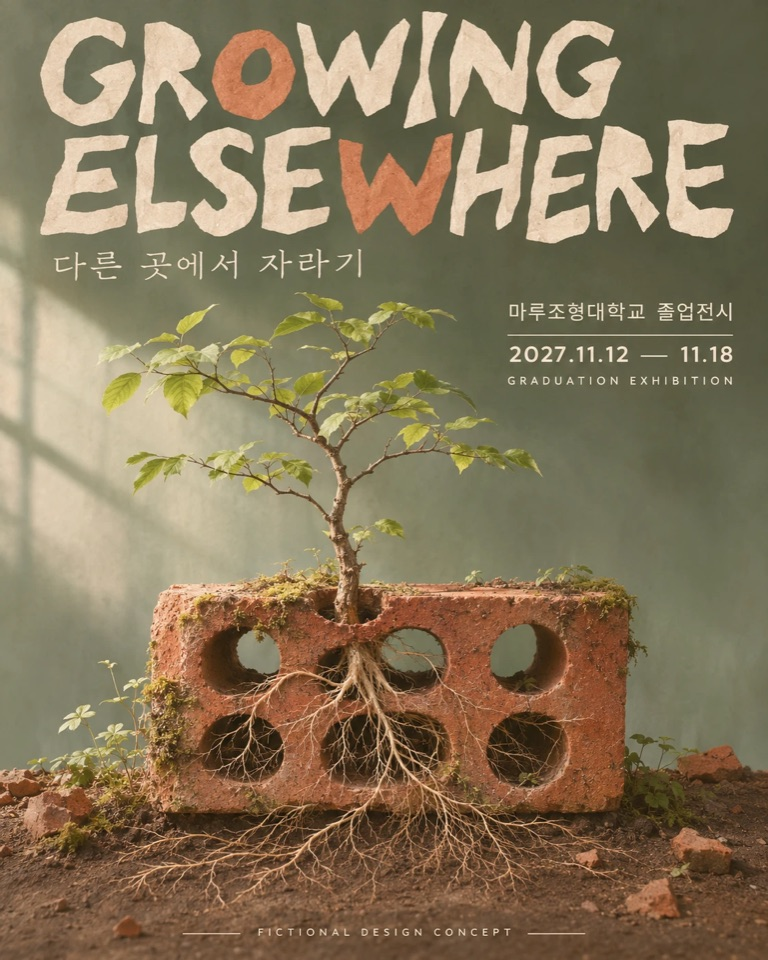
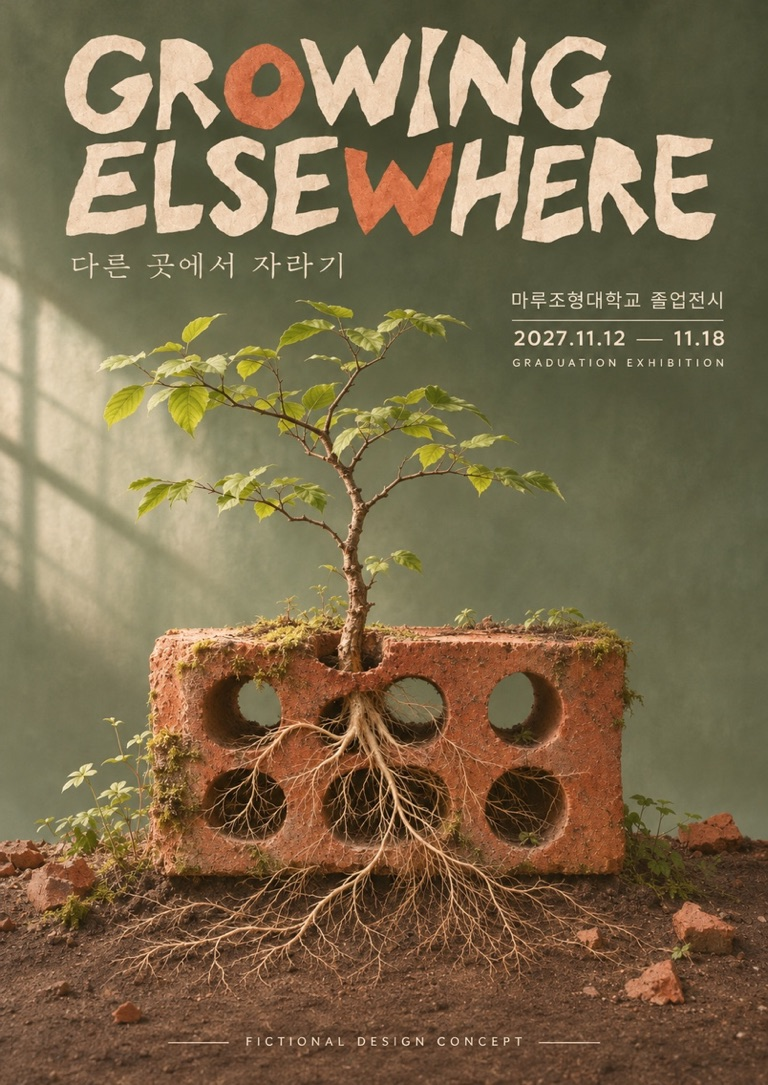
전시 포스터 규격 402:568 적용(탐색·홈·보관함) + 규격 포스터 7장 교체, 입력 칸 굵기·소속 카드·드로어 닫힘 정리

diff --git a/assets/flow.css b/assets/flow.css
@@ -72,22 +72,22 @@ img { display: block; }
 .cnt { font-size: 12px; font-weight: 500; color: var(--text-secondary); font-variant-numeric: tabular-nums; }
 .ul { position: relative; display: flex; align-items: center; height: 47px; margin-top: 4px; border-bottom: 1px solid var(--border-primary); transition: border-color .2s; }
 .ul:focus-within { border-bottom-color: var(--text-primary); }
-.ul input { flex: 1; min-width: 0; height: 100%; padding: 0; border: 0; outline: 0; background: transparent; font-size: 16px; font-weight: 500; }
+.ul input { flex: 1; min-width: 0; height: 100%; padding: 0; border: 0; outline: 0; background: transparent; font-size: 16px; font-weight: 400; } /* 11-13 Figma Field 값·안내 16 Regular */
 .ul input::placeholder, textarea::placeholder { color: var(--text-teritary); }   /* 11-08: Figma Field `text/teritary`(대비 4.8:1). 잠긴 칸(.locked)만 disable 유지 */
 .ul .i { width: 22px; height: 22px; }
 .pick { width: 100%; height: 49px; text-align: left; cursor: pointer; justify-content: space-between; font-size: 16px; font-weight: 400; } /* 11-07 Figma 대조: 선택값 16 Regular · 11-08 `Field / 선택` 입력 줄 49 */
 .pick span.ph { color: var(--text-teritary); }   /* 11-08 Figma Field 안내 글자 text/teritary(이전 disable은 대비 1.5:1) */
 .pick .i { width: 20px; height: 20px; color: var(--text-primary); }
-.ta { display: block; width: 100%; height: 128px; margin-top: 8px; padding: 14px 16px; border: 1px solid var(--border-primary); border-radius: var(--r12); font-size: 16px; font-weight: 500; line-height: 1.4; resize: none; outline: 0; transition: border-color .2s; }
+.ta { display: block; width: 100%; height: 128px; margin-top: 8px; padding: 14px 16px; border: 1px solid var(--border-primary); border-radius: var(--r12); font-size: 16px; font-weight: 400; line-height: 1.4; resize: none; outline: 0; transition: border-color .2s; }
 .ta:focus { border-color: var(--text-primary); }
 .cnt-r { margin-top: 8px; text-align: right; font-size: 12px; font-weight: 500; color: var(--text-teritary); font-variant-numeric: tabular-nums; }
 .help { margin-top: 4px; font-size: 12px; font-weight: 500; line-height: 1.4; color: var(--text-secondary); }
 .help.e { color: var(--notice); }
 .two { display: grid; grid-template-columns: 1fr 1fr; gap: 12px; }   /* 11-08 Figma 두 칸 175 + 12 */
 .locked { margin-top: 8px; border: 1px solid var(--border-primary); border-radius: var(--r12); overflow: hidden; }
-.locked .fix { display: flex; align-items: center; justify-content: space-between; height: 54px; padding: 0 16px; background: var(--bg-secondary); font-size: 16px; font-weight: 500; }   /* 11-13 Figma `Field / 소속`: 학교명 줄 54(칸 안쪽 360×54, 글자 22 + 위아래 16) */
+.locked .fix { display: flex; align-items: center; justify-content: space-between; height: 54px; padding: 0 16px; background: var(--bg-secondary); font-size: 16px; font-weight: 400; }   /* 11-13 Figma `Field / 소속`: 학교명 줄 54(칸 안쪽 360×54, 글자 22 + 위아래 16) */
 .locked .fix .i { width: 18px; height: 18px; color: var(--text-teritary); }
-.locked input { display: block; width: 100%; height: 55px; padding: 0 16px; border: 0; border-top: 1px solid var(--border-primary); outline: 0; font-size: 16px; font-weight: 500; }   /* 11-13 입력 줄 55(위 선 1 + 54), 카드 전체 111 */
+.locked input { display: block; width: 100%; height: 55px; padding: 0 16px; border: 0; border-top: 1px solid var(--border-primary); outline: 0; font-size: 16px; font-weight: 400; }   /* 11-13 입력 줄 55(위 선 1 + 54), 카드 전체 111 */
 .locked:focus-within { border-color: var(--text-primary); }
 .locked:focus-within input { border-top-color: var(--border-primary); }
 .locked input::placeholder { color: var(--text-disable); }

diff --git a/my.html b/my.html
@@ -119,7 +119,7 @@ img { display: block; }
 .card:active { transform: scale(.98); }
 @keyframes rise { from { opacity: 0; transform: translateY(12px); } }
 .card .im div { position: relative; overflow: hidden; background: var(--bg-secondary); }   /* 11-12 카드 E: 검은 틀·사진 여백 7·모서리 12 없음, 사진 외곽선 없음 */
-.card.ex .im div { aspect-ratio: 161 / 241; }
+.card.ex .im div { aspect-ratio: 402 / 568; }   /* 11-13 포스터 정식 규격 402:568 (탐색과 같은 카드, 이전 161/241) */
 .card.wk .im div { aspect-ratio: 161 / 215; }
 .card .im img { width: 100%; height: 100%; object-fit: cover; transition: transform .7s var(--ease); }
 @media (hover: hover) { .card:hover .im img { transform: scale(1.03); } }
@@ -187,7 +187,7 @@ img { display: block; }
 .sheet.bot .jh { margin-top: 2px; font-size: 12px; font-weight: 500; line-height: 1.4; color: var(--text-teritary); }
 .sheet.bot label { display: block; margin-top: 24px; font-size: 14px; font-weight: 600; letter-spacing: -0.03em; }
 .sheet.bot label .req { color: var(--notice); margin-left: 2px; }
-.sheet.bot .jin { display: block; width: 100%; height: 48px; margin-top: 12px; padding: 0 16px; border: 1px solid var(--border-primary); border-radius: var(--r12); font: inherit; font-size: 16px; letter-spacing: -0.03em; color: var(--text-primary); background: #fff; transition: border-color .2s; }
+.sheet.bot .jin { display: block; width: 100%; height: 48px; margin-top: 12px; padding: 0 16px; border: 1px solid var(--border-primary); border-radius: var(--r12); font: inherit; font-size: 16px; font-weight: 400; letter-spacing: -0.03em; color: var(--text-primary); background: #fff; transition: border-color .2s; } /* 11-13 Figma Field 값·안내 16 Regular */
 .sheet.bot .jin:focus { outline: 0; border-color: var(--text-primary); }
 .sheet.bot .jx { margin-top: 8px; font-size: 12px; font-weight: 500; line-height: 1.4; color: var(--text-teritary); }
 .sheet.bot .jbtn { display: grid; place-items: center; width: 100%; height: 48px; margin-top: 24px; border-radius: var(--r12); background: var(--text-primary); color: #fafafa; font-size: 14px; font-weight: 600; transition: background .2s, opacity .2s, transform .2s var(--ease); }

diff --git a/profile-edit.html b/profile-edit.html
@@ -64,7 +64,7 @@ form { flex: 1; display: flex; flex-direction: column; }
 .ul { position: relative; flex: 1; min-width: 0; display: flex; align-items: center; height: 47px; border-bottom: 1px solid var(--border-primary); transition: border-color .2s; }
 .ul:focus-within { border-bottom-color: var(--text-primary); }
 .field.err .ul { border-bottom-color: var(--notice); }
-.ul input { flex: 1; min-width: 0; height: 100%; padding: 0; border: 0; outline: 0; background: transparent; font-size: 16px; font-weight: 500; }
+.ul input { flex: 1; min-width: 0; height: 100%; padding: 0; border: 0; outline: 0; background: transparent; font-size: 16px; font-weight: 400; } /* 11-13 Figma Field 값·안내 16 Regular */
 .ul input::placeholder { color: var(--text-teritary); }   /* 11-08: Figma Field과 같은 text/teritary */
 .ul input[readonly] { color: var(--text-primary); }
 .ul .i { width: 22px; height: 22px; color: var(--text-primary); }
@@ -117,7 +117,7 @@ dialog.modal::backdrop { background: rgba(0, 0, 0, .42); }
 .pphoto + .field { margin-top: 20px; }   /* 11-08 Figma: 사진 아래 안내 글이 없어서 사진 → 첫 입력 20 */
 .chip .ck { display: none; }
 .chip[aria-pressed="true"] .ck { display: block; }
-.ta { display: block; width: 100%; height: 128px; margin-top: 8px; padding: 14px 16px; border: 1px solid var(--border-primary); border-radius: var(--r12); font: inherit; font-size: 16px; font-weight: 500; line-height: 1.4; resize: none; outline: 0; color: inherit; transition: border-color .2s; }
+.ta { display: block; width: 100%; height: 128px; margin-top: 8px; padding: 14px 16px; border: 1px solid var(--border-primary); border-radius: var(--r12); font: inherit; font-size: 16px; font-weight: 400; line-height: 1.4; resize: none; outline: 0; color: inherit; transition: border-color .2s; }
 .ta:focus { border-color: var(--text-primary); }
 .ta::placeholder { color: var(--text-teritary); }
 .cnt-r { margin-top: 8px; text-align: right; font-size: 12px; font-weight: 500; color: var(--text-teritary); font-variant-numeric: tabular-nums; }

diff --git a/home.html b/home.html
@@ -103,7 +103,7 @@ img { display: block; }
 .slot.is-active { cursor: default; }
 .slot:not(.is-active) .badge { opacity: .4; }
 /* 포스터 크기는 늘 같고(레이아웃 고정), 옆 칸 모습은 transform으로: JS가 중앙과의 거리에 따라 손가락을 따라 연속으로 바꿈(paint) */
-.poster { position: relative; width: var(--a); aspect-ratio: 232 / 329; overflow: hidden; background: #797979; transform-origin: 50% 0; transform: translateY(calc(var(--a) * 14 / 232)) scale(var(--side)); }   /* 11-12 포스터 모서리 0 (이전 12) */
+.poster { position: relative; width: var(--a); aspect-ratio: 402 / 568; overflow: hidden; background: #797979; transform-origin: 50% 0; transform: translateY(calc(var(--a) * 14 / 232)) scale(var(--side)); }   /* 11-12 포스터 모서리 0 (이전 12) */
 .slot.is-active .poster { transform: none; }
 .poster img { position: absolute; inset: 0; width: 100%; height: 100%; object-fit: cover; }
 /* 영상 포스터: 가운데(활성) 포스터일 때만 소리 없이 반복 재생, 다른 칸은 썸네일(첫 이미지)만 */

diff --git a/verify.html b/verify.html
@@ -65,7 +65,7 @@ form { flex: 1; display: flex; flex-direction: column; }
 .ul { position: relative; flex: 1; min-width: 0; display: flex; align-items: center; height: 47px; border-bottom: 1px solid var(--border-primary); transition: border-color .2s; }
 .ul:focus-within { border-bottom-color: var(--text-primary); }
 .field.err .ul { border-bottom-color: var(--notice); }
-.ul input { flex: 1; min-width: 0; height: 100%; padding: 0; border: 0; outline: 0; background: transparent; font-size: 16px; font-weight: 500; }
+.ul input { flex: 1; min-width: 0; height: 100%; padding: 0; border: 0; outline: 0; background: transparent; font-size: 16px; font-weight: 400; } /* 11-13 Figma Field 값·안내 16 Regular */
 .ul input::placeholder { color: var(--text-teritary); }
 .ul input:disabled { cursor: default; }   /* 11-13 학교 선택 전 이메일 칸 */   /* 11-08: Figma Field과 같은 text/teritary */
 .ul input[readonly] { color: var(--text-primary); }

diff --git a/exhibition-new.html b/exhibition-new.html
@@ -77,7 +77,7 @@
 .addr-lead { font-size: 16px; font-weight: 600; margin-top: 8px; }
 .addr-q { display: flex; align-items: center; height: 48px; border-bottom: 1px solid var(--border-primary); }
 .addr-q:focus-within { border-bottom-color: var(--text-primary); }
-.addr-q input { flex: 1; min-width: 0; height: 100%; border: 0; outline: 0; background: transparent; font-size: 16px; font-weight: 500; }
+.addr-q input { flex: 1; min-width: 0; height: 100%; border: 0; outline: 0; background: transparent; font-size: 16px; font-weight: 400; } /* 11-13 Figma Field 값·안내 16 Regular */
 .addr-q input::placeholder { color: var(--text-teritary); }   /* 11-08: 입력 안내 글자 = Figma Field `text/teritary`(#71717b, 대비 4.8:1) */
 .addr-q button { width: 40px; height: 40px; display: grid; place-items: center; margin-right: -8px; }
 .addr-q .i { width: 22px; height: 22px; }

diff --git a/explore.html b/explore.html
@@ -118,7 +118,7 @@ html.kb .search input:focus-visible { box-shadow: 0 0 0 2px var(--text-primary);
 .card:active { transform: scale(.98); }
 @keyframes rise { from { opacity: 0; transform: translateY(12px); } }
 .card .im div { position: relative; overflow: hidden; background: var(--bg-secondary); }   /* 11-12 카드 E: 검은 틀·사진 여백 7·모서리 12 없음, 사진 외곽선 없음 */
-.card.ex .im div { aspect-ratio: 161 / 241; }
+.card.ex .im div { aspect-ratio: 402 / 568; }   /* 11-13 포스터 정식 규격 402:568(등록 자르기 틀과 같음, 이전 161/241) */
 .card.wk .im div { aspect-ratio: 161 / 215; }
 .card .im img { width: 100%; height: 100%; object-fit: cover; transition: transform .7s var(--ease); }
 @media (hover: hover) { .card:hover .im img { transform: scale(1.03); } }
